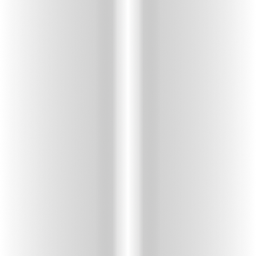
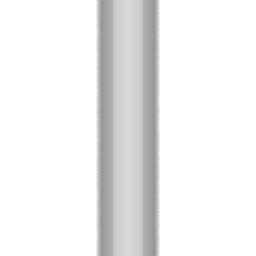
new sustain textures

diff --git a/Encore/src/game/assets.cpp b/Encore/src/game/assets.cpp
@@ -13,6 +13,8 @@ Player playerAssets = Player::getInstance();
 class Assets;
 
 
+
+
 Texture2D Assets::LoadTextureFilter(const std::filesystem::path &texturePath, int& loadedAssets) {
     Texture2D tex = LoadTexture(texturePath.string().c_str());
     GenTextureMipmaps(&tex);
@@ -143,6 +145,7 @@ void Assets::LoadAssets() {
 
     soloTexture = Assets::LoadTextureFilter(directory / "Assets/highway/solo.png", loadedAssets);
     sustainTexture = Assets::LoadTextureFilter(directory / "Assets/notes/sustain.png", loadedAssets);
+	sustainHeldTexture = Assets::LoadTextureFilter(directory / "Assets/notes/sustain-held.png", loadedAssets);
 
     smasherReg.materials[0].maps[MATERIAL_MAP_ALBEDO].texture = smasherRegTex;
     smasherReg.materials[0].maps[MATERIAL_MAP_ALBEDO].color = playerAssets.accentColor;
@@ -224,14 +227,14 @@ void Assets::LoadAssets() {
     soloMat.maps[MATERIAL_MAP_DIFFUSE].color = SKYBLUE;
     sustainMat.maps[MATERIAL_MAP_DIFFUSE].texture = sustainTexture;
     sustainMat.maps[MATERIAL_MAP_DIFFUSE].color = ColorTint(playerAssets.accentColor, { 180,180,180,255 });
-    sustainMatHeld.maps[MATERIAL_MAP_EMISSION].texture = sustainTexture;
+    sustainMatHeld.maps[MATERIAL_MAP_EMISSION].texture = sustainHeldTexture;
     sustainMatHeld.maps[MATERIAL_MAP_EMISSION].color = WHITE;
     sustainMatHeld.maps[MATERIAL_MAP_EMISSION].value = 1;
-    sustainMatHeld.maps[MATERIAL_MAP_DIFFUSE].texture = sustainTexture;
+    sustainMatHeld.maps[MATERIAL_MAP_DIFFUSE].texture = sustainHeldTexture;
     sustainMatHeld.maps[MATERIAL_MAP_DIFFUSE].color = playerAssets.accentColor;
     sustainMatOD.maps[MATERIAL_MAP_DIFFUSE].texture = sustainTexture;
     sustainMatOD.maps[MATERIAL_MAP_DIFFUSE].color = { 180,180,180,255 };
-    sustainMatHeldOD.maps[MATERIAL_MAP_DIFFUSE].texture = sustainTexture;
+    sustainMatHeldOD.maps[MATERIAL_MAP_DIFFUSE].texture = sustainHeldTexture;
     sustainMatHeldOD.maps[MATERIAL_MAP_DIFFUSE].color = WHITE;
     sustainMatMiss.maps[MATERIAL_MAP_DIFFUSE].texture = sustainTexture;
     sustainMatMiss.maps[MATERIAL_MAP_DIFFUSE].color = DARKGRAY;

diff --git a/Encore/include/game/assets.h b/Encore/include/game/assets.h
@@ -118,6 +118,7 @@ public:
     Texture2D github;
 
     Texture2D sustainTexture;
+	Texture2D sustainHeldTexture;
     Texture2D soloTexture;
     Material soloMat;
     Material sustainMat;
